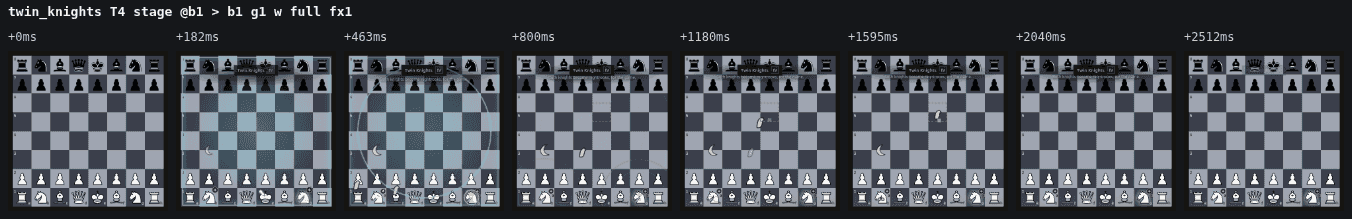
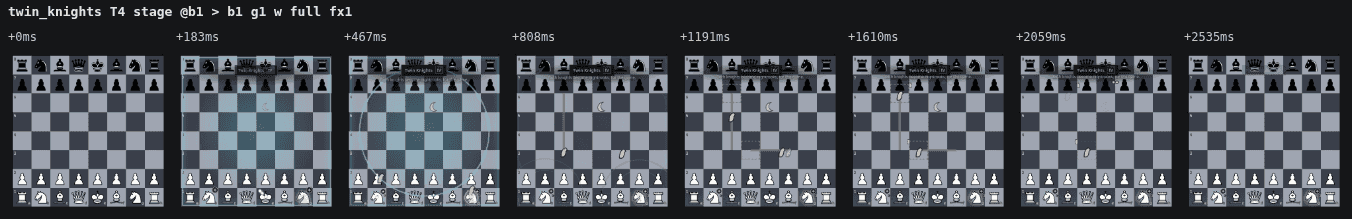
Twin Knights now shows nightrooks as the engine plays them: each knight keeps its L leap and then slides straight like a rook, one up the open c-file and one along the third rank, instead of nightrider double leaps (slice TC-basic review fix, strip and off check recaptured)
Claude-Session: https://claude.ai/code/session_01YECgEmH5LFGrr5Wy9Gqq3B

diff --git a/src/components/effects/basicPlays.tsx b/src/components/effects/basicPlays.tsx
@@ -6163,10 +6163,25 @@ function TotalRecallScene({ lead, role, delayMs }: RuleProps) {
   );
 }
 
-/** Twin Knights: under the crescent both knights become nightriders, each
- *  carrying its leap on in the same direction for a second jump in one move;
- *  for the game. */
+/** Twin Knights: under the crescent both knights become nightrooks for the
+ *  game: each keeps its L leap and also slides straight like a rook. The
+ *  cast knight (b1) leaps to c3 and slides up the open c-file; its twin five
+ *  files over (g1) leaps to f3 and slides along the third rank. */
 const TWINK: Palette = ["#9a7a4a", "#e0d0b0", "#332918"];
+/** A straight rook track up file `dx` from rank `a` to rank `b`, mirrored. */
+function fileRail(dx: number, a: number, b: number): CSSProperties {
+  const c = cellh(dx, (a + b) / 2);
+  const w = CELL * 0.12;
+  const h = Math.abs(b - a) * CELL;
+  return { left: `calc(${c.left} + ${(CELL - w) / 2}%)`, width: `${w}%`, top: `calc(${c.top} + ${(CELL - h) / 2}%)`, height: `${h}%` };
+}
+/** A straight rook track along rank `dy` from file `a` to file `b`, mirrored. */
+function rankRail(dy: number, a: number, b: number): CSSProperties {
+  const c = cellh((a + b) / 2, dy);
+  const w = Math.abs(b - a) * CELL;
+  const h = CELL * 0.12;
+  return { left: `calc(${c.left} + ${(CELL - w) / 2}%)`, width: `${w}%`, top: `calc(${c.top} + ${(CELL - h) / 2}%)`, height: `${h}%` };
+}
 function TwinKnightsScene({ lead, role, delayMs }: RuleProps) {
   if (role === "entrance" || !lead) return <RuleCut id="twin_knights" pal={TWINK} dev="beehive" fx="leap" role={role} delayMs={delayMs} />;
   const [p0, p1, p2] = TWINK;
@@ -6174,31 +6189,38 @@ function TwinKnightsScene({ lead, role, delayMs }: RuleProps) {
   return (
     <HStage>
       {/* tell: the crescent over the pair */}
-      <Ly c="bsp-facein" at={d(0)} box={cellh(0, 2, 0.7)} len={dur(1900)}>
+      <Ly c="bsp-facein" at={d(0)} box={cellh(3, 4.3, 0.6)} len={dur(2200)}>
         <svg viewBox="0 0 10 10" className="block h-full w-full" aria-hidden="true">
           <path d="M6.6 1 C3 1.4 1.4 4 1.8 6.4 C2.4 9 5.6 9.8 8 8.4 C5.2 8.2 3.6 5.8 4.4 3.4 C4.8 2.2 5.6 1.4 6.6 1 Z" fill={p1} stroke={p2} strokeWidth="0.4" {...SJ} />
         </svg>
       </Ly>
-      {/* strike: each knight leaps, and leaps again the same way */}
-      <Ly c="bsp-r-hop" at={d(260)} box={cellh(-1, 0)} len={dur(900)} v={{ "--mx": hx(-1), "--my": 2 }}>
+      {/* strike: each knight keeps its L leap ... */}
+      <Ly c="bsp-r-hop" at={d(200)} box={cellh(0, 0)} len={dur(900)} v={{ "--mx": hx(1), "--my": 2 }}>
         <Man k="n" pal={TWINK} />
       </Ly>
-      <Ly c="bsp-r-hop" at={d(320)} box={cellh(1, 0)} len={dur(900)} v={{ "--mx": hx(1), "--my": 2 }}>
+      <Ly c="bsp-r-hop" at={d(300)} box={cellh(5, 0)} len={dur(900)} v={{ "--mx": hx(-1), "--my": 2 }}>
         <Man k="n" pal={TWINK} />
       </Ly>
-      {[-1, 1].map((s, i) => (
-        <Ly key={`b${s}`} c="bsp-r-hop" at={d(660 + i * 60)} box={cellh(2 * s, 2)} len={dur(1300)} v={{ "--mx": hx(s), "--my": 2 }}>
-          <Man k="n" pal={TWINK} />
-        </Ly>
-      ))}
-      {[-1, 1].map((s) => (
-        <Ly key={`l${s}`} c="bsp-r-hold" at={d(500)} box={cellh(3 * s, 4)} len={dur(1300)} v={landing(p0)} />
-      ))}
-      {[-1, 1].map((s) => (
-        <Ly key={`d${s}`} c="bsp-drift" at={d(1000)} box={cellh(3 * s, 3.6, 0.2)} len={dur(800)} v={{ "--dx": `${s * 160}%`, "--dy": "calc(var(--fx-side, 1) * 60%)", "--rot": "0deg", background: tint(p1, 0.8) }} />
-      ))}
+      {/* ... then slides straight like a rook: up the file, along the rank */}
+      <Ly c="bsp-r-hold" at={d(620)} box={fileRail(1, 2, 5)} len={dur(1400)} v={{ background: tint(p0, 0.8) }} />
+      <Ly c="bsp-r-move" at={d(640)} box={cellh(1, 2)} len={dur(1400)} v={{ "--mx": 0, "--my": 3 }}>
+        <Man k="n" pal={TWINK} />
+      </Ly>
+      <Ly c="bsp-r-hold" at={d(760)} box={rankRail(2, 4, 2)} len={dur(1400)} v={{ background: tint(p0, 0.8) }} />
+      <Ly c="bsp-r-move" at={d(780)} box={cellh(4, 2)} len={dur(1400)} v={{ "--mx": hx(-2), "--my": 0 }}>
+        <Man k="n" pal={TWINK} />
+      </Ly>
+      <Ly c="bsp-r-hold" at={d(900)} box={cellh(1, 5)} len={dur(1100)} v={landing(p0)} />
+      <Ly c="bsp-r-hold" at={d(1040)} box={cellh(2, 2)} len={dur(1100)} v={landing(p0)} />
+      {/* each stop wears a small rook: a knight that also moves as a rook */}
+      <Ly c="bsp-stamp" at={d(1180)} box={cellh(1.55, 5.45, 0.42)} len={dur(1100)}>
+        <Man k="r" pal={TWINK} />
+      </Ly>
+      <Ly c="bsp-stamp" at={d(1300)} box={cellh(1.45, 2.45, 0.42)} len={dur(1000)}>
+        <Man k="r" pal={TWINK} />
+      </Ly>
       {/* settle: for the game */}
-      <Ly c="bsp-stamp" at={d(1100)} box={cellh(0, -0.6, 0.45)} len={dur(900)}>
+      <Ly c="bsp-stamp" at={d(1500)} box={cellh(3.5, 5.6, 0.45)} len={dur(900)}>
         <Ever color={p2} fill={p1} />
       </Ly>
     </HStage>

diff --git a/docs/polish-pass/slices/TC-basic.md b/docs/polish-pass/slices/TC-basic.md
@@ -95,6 +95,8 @@ tsc: no errors in basicPlays.tsx. eslint on basicPlays.tsx clean. test:scene-com
 
 Round 2 stopped at a clean commit. Done: F225 (tier 5 and 6), every tier 1 card and every tier 4 card, 129 scenes, each with before and after evidence and an off check. Not started: tier 3 (69 cards) and tier 2 (58 cards), still on the 20 templates; tier 3 is next. With the kit above a card is a 30 to 60 line scene; the practical limit is strip capture, which on this box crashes the browser about one card in three under memory pressure (rerun the failed ids).
 
+Review fix: twin_knights redrawn as nightrooks (leap kept, straight rook slides added) with new helpers fileRail and rankRail; after strip and off check recaptured (the first off rerun failed because the dev server was still recompiling, the second passed). Tier 3 is still next.
+
 ## REQUESTS
 
 - Integrator: the evidence folder reads 35M (`du -sh docs/polish-pass/evidence`) against the 25 MB line; TC-basic is 4.3M of it (t4 3.7M). I kept per-card before strips out of the tier 4 set for that reason.
@@ -166,7 +168,7 @@ Evidence (`docs/polish-pass/evidence/TC-basic/t4/`, 3.7 MB): the before strips w
 | summon_knight | T4 | REVAMPED | the horn sounds and a new knight gallops in from the edge to the chosen empty square, kicking up dust; once. | `t4/before/t4-before*.sheet.png` | `t4/after/summon_knight.png` | pass (`t4/after/summon_knight.off.png`) | 10a2ccf |
 | timely_lull | T4 | REVAMPED | a crescent moon hangs over the board and both sides' nerf shackles spring open together, for three turns each; it costs the caster no move. | `t4/before/t4-before*.sheet.png` | `t4/after/timely_lull.png` | pass (`t4/after/timely_lull.off.png`) | 10a2ccf |
 | total_recall | T4 | REVAMPED | a magnet at the caster's home edge pulls every piece past the 4th rank back to the 3rd; the one whose 3rd-rank square is taken stays where it is; a reroll die is spent. | `t4/before/t4-before*.sheet.png` | `t4/after/total_recall.png` | pass (`t4/after/total_recall.off.png`) | 10a2ccf |
-| twin_knights | T4 | REVAMPED | under the crescent both knights become nightriders, each carrying its leap on in the same direction for a second jump in one move; for the game. | `t4/before/t4-before*.sheet.png` | `t4/after/twin_knights.png` | pass (`t4/after/twin_knights.off.png`) | 10a2ccf |
+| twin_knights | T4 | REVAMPED (fixed after review) | under the crescent both knights become nightrooks for the game, as the engine does (ORTHO_DIRS slides on top of the leap): the b1 knight keeps its L leap to c3 and slides straight up the open c-file, its twin on g1 leaps to f3 and slides straight along the third rank to d3; a small rook badge marks each stop. Round 2's first draft wrongly showed nightrider double leaps. | `t4/before/t4-before*.sheet.png` | `t4/after/twin_knights.png` | pass (`t4/after/twin_knights.off.png`) | 10a2ccf, fix below |
 | twist_the_knife | T4 | REVAMPED | the enemy bishop takes the caster's pawn; a knife drives in beside it and twists, and the capturer is frozen for a turn. Three of their captures' worth. | `t4/before/t4-before*.sheet.png` | `t4/after/twist_the_knife.png` | pass (`t4/after/twist_the_knife.off.png`) | 10a2ccf |
 | wa_bind_the_queen | T4 | REVAMPED | a runed chain loops round the enemy queen and every piece beside her; the three of them strain in it, while their bishop outside the loop moves freely. Two of their turns. | `t4/before/t4-before*.sheet.png` | `t4/after/wa_bind_the_queen.png` | pass (`t4/after/wa_bind_the_queen.off.png`) | 10a2ccf |
 | wa_blink | T4 | REVAMPED | an eye opens over the king and over his bishop, and in the blink they have traded squares; once. | `t4/before/t4-before*.sheet.png` | `t4/after/wa_blink.png` | pass (`t4/after/wa_blink.off.png`) | 10a2ccf |
